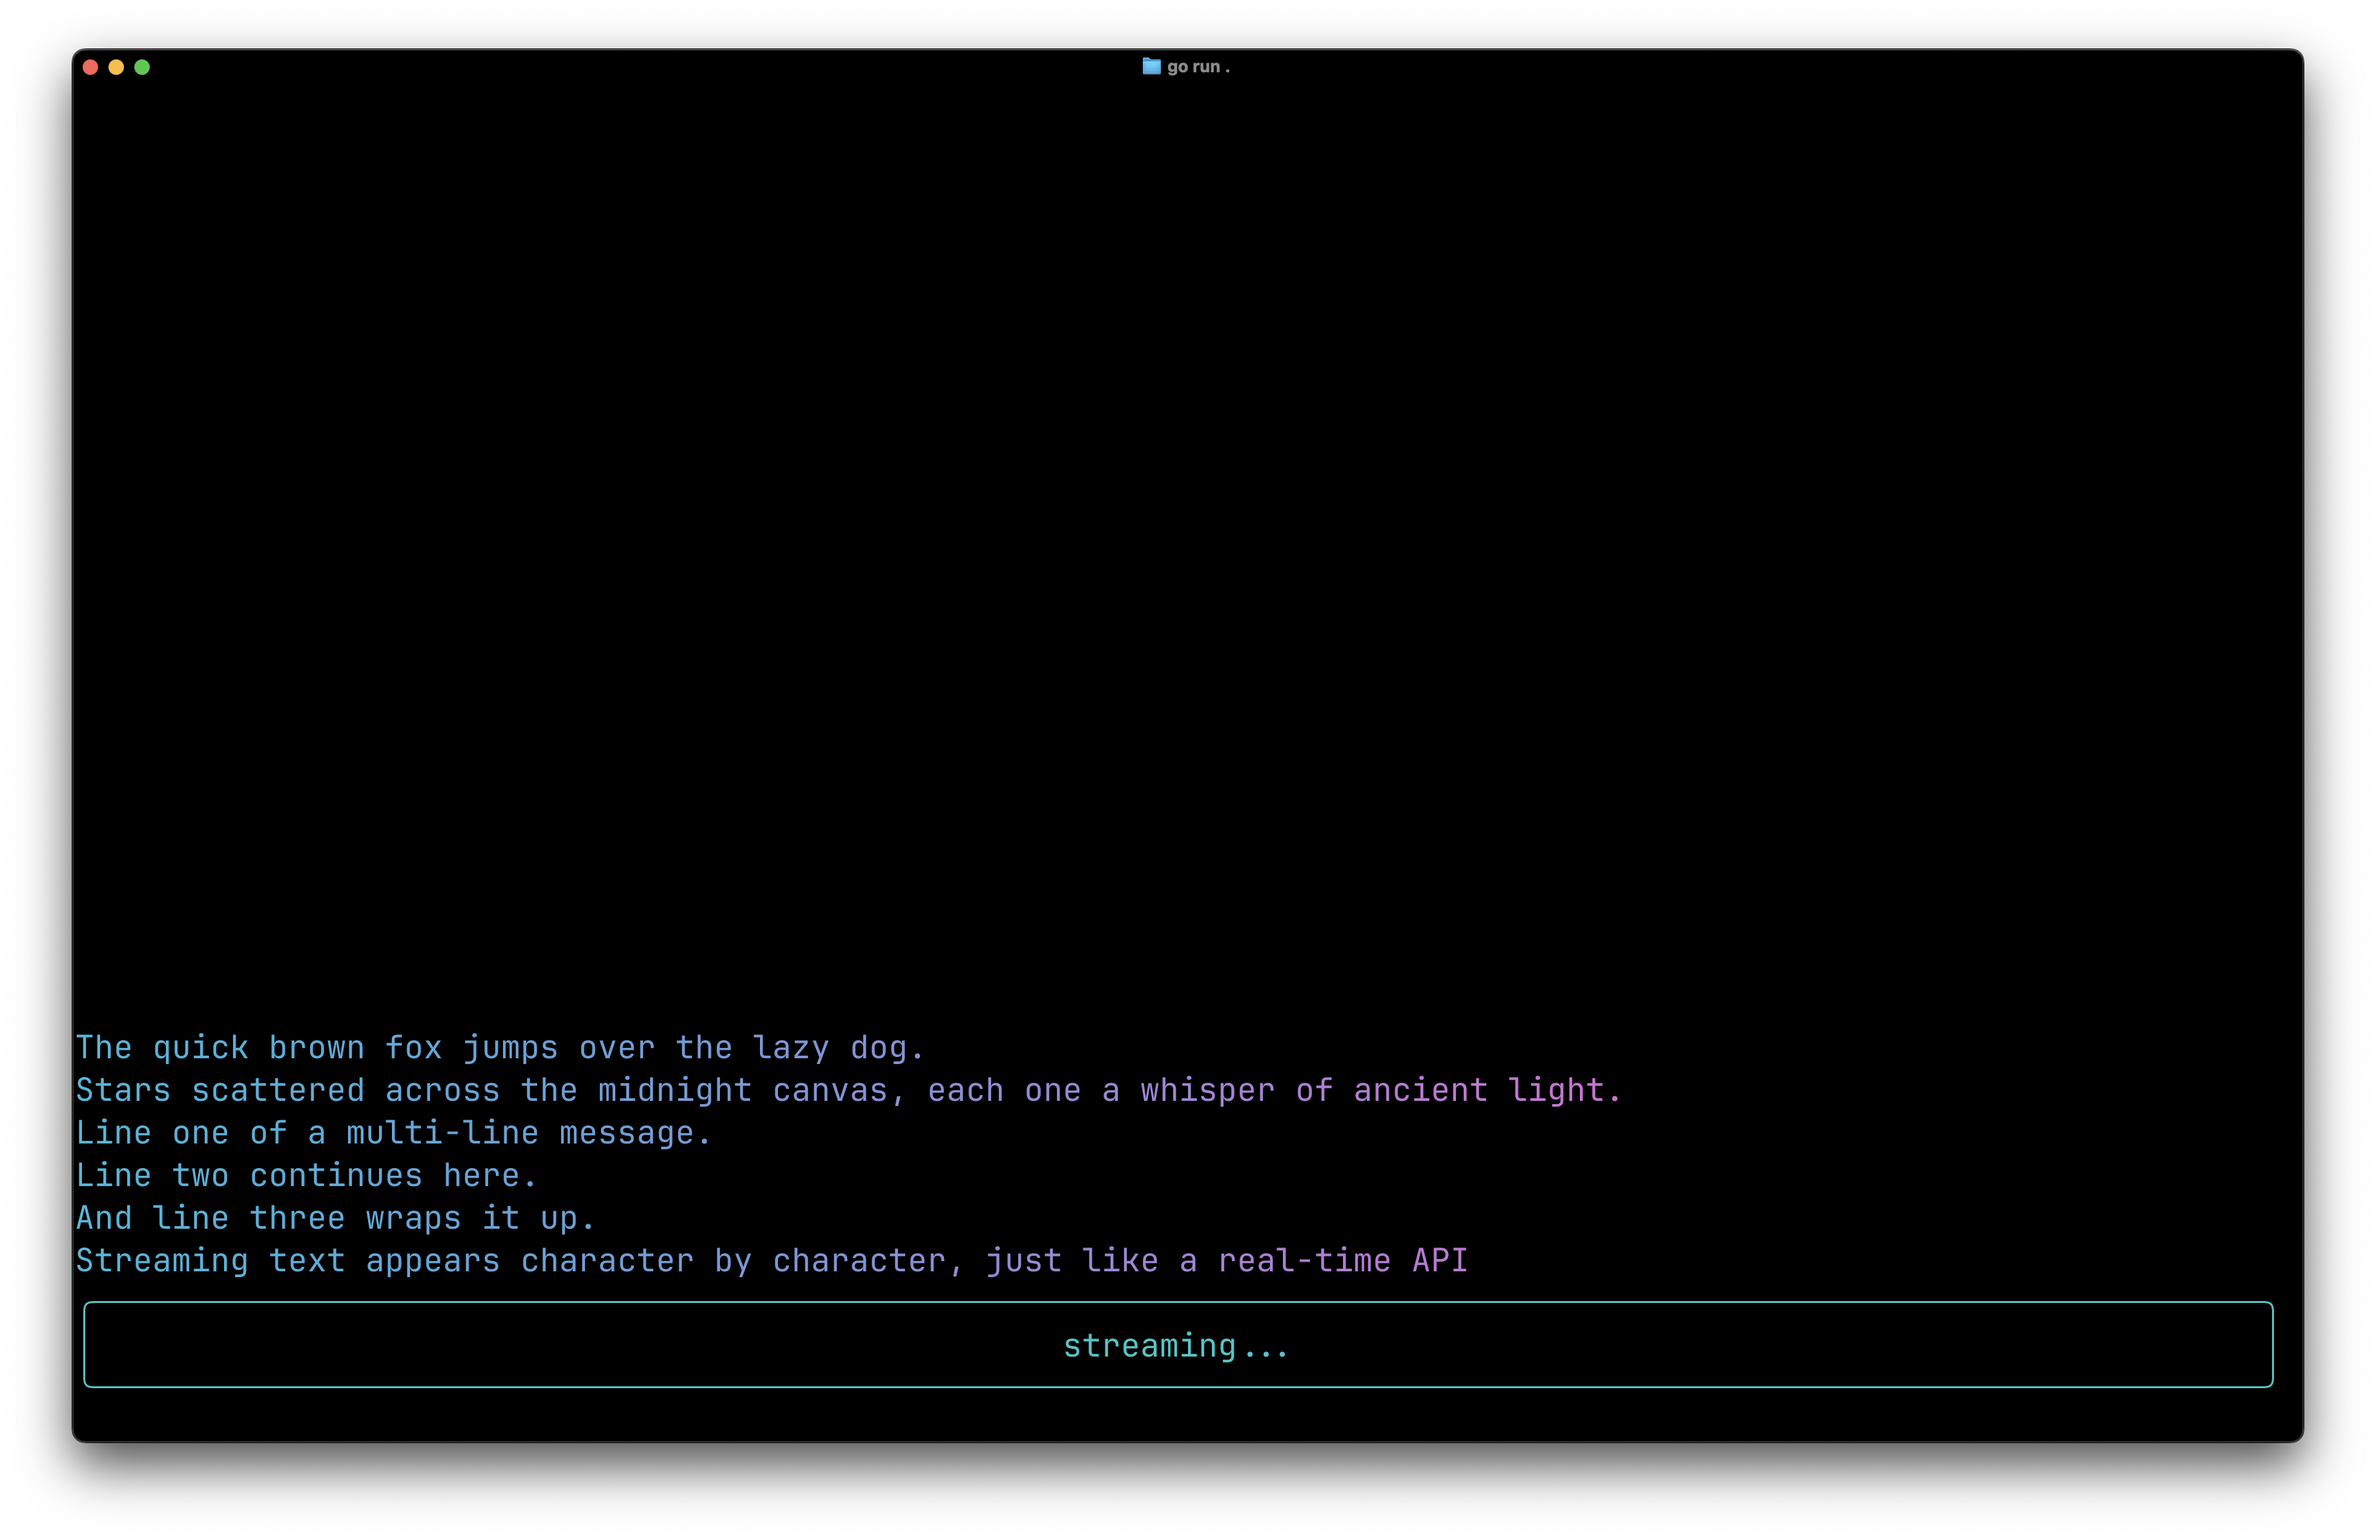
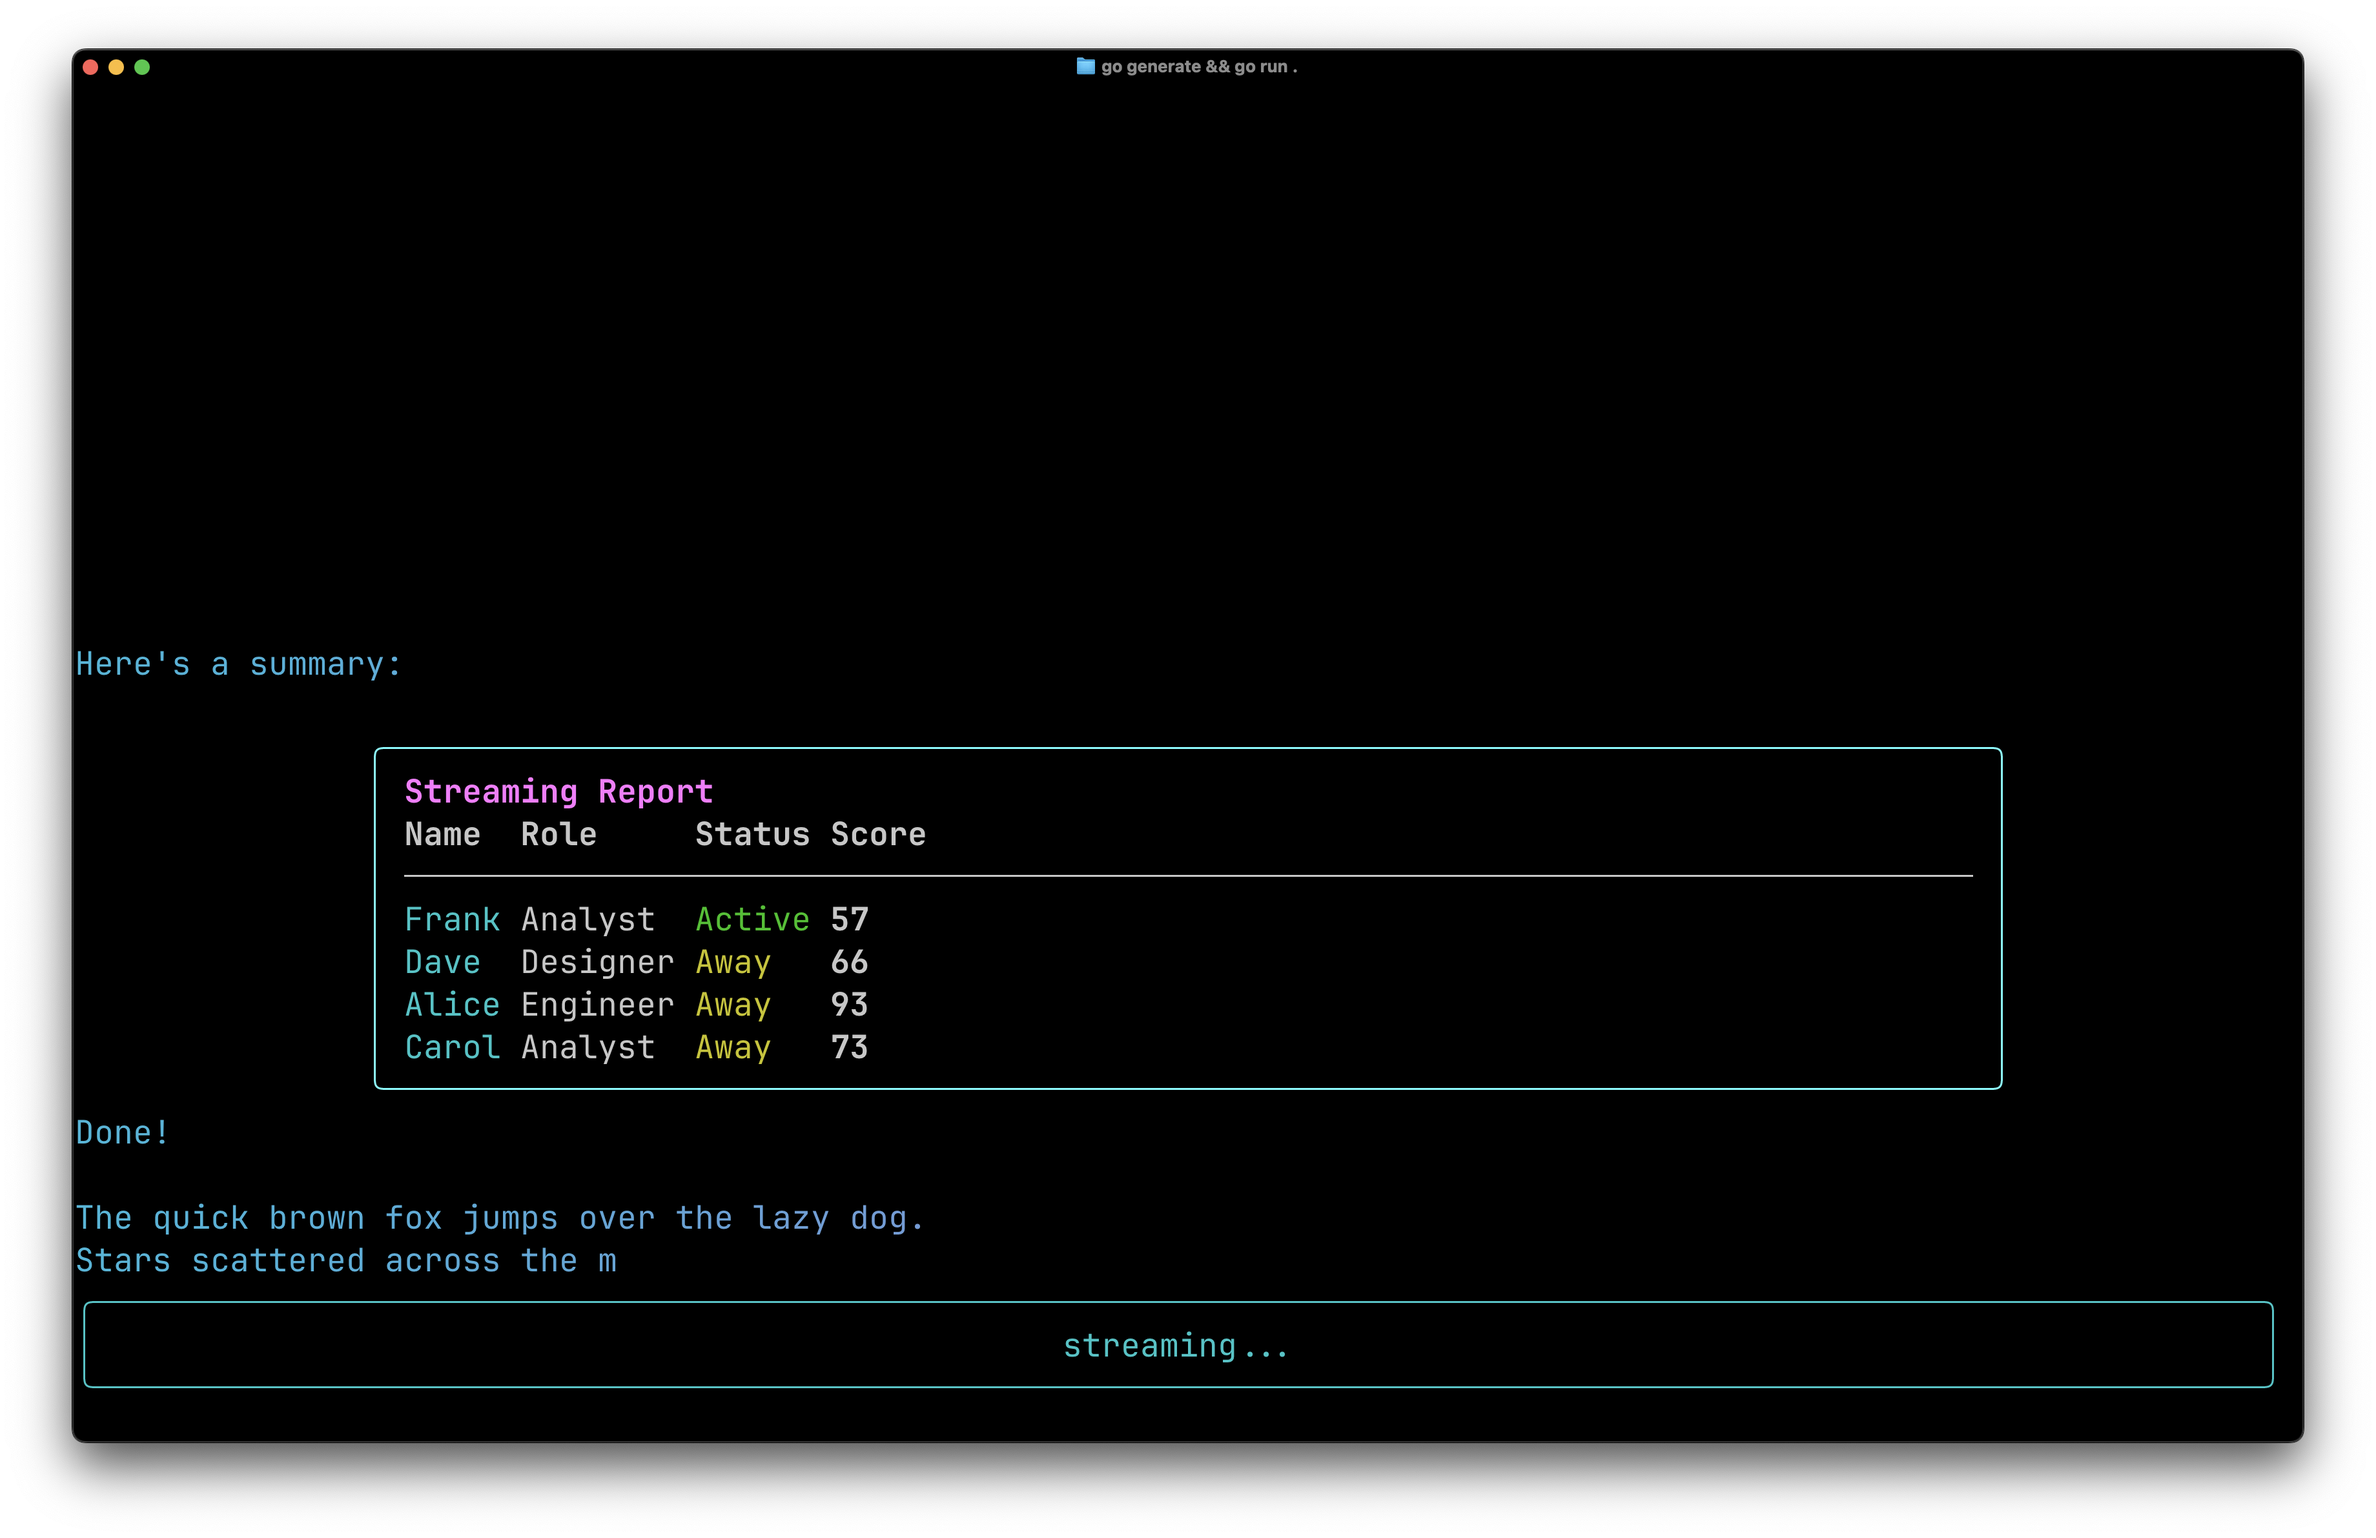
make the stream write api simpler and update the docs

diff --git a/app_lifecycle.go b/app_lifecycle.go
@@ -187,14 +187,22 @@ func (a *App) printAboveStyledRaw(content string) {
 	a.MarkDirty()
 }
 
-// PrintAboveElement renders an element tree and inserts the resulting rows into
+// PrintAboveElement renders a Viewable and inserts the resulting rows into
 // the inline scrollback. The element is rendered at the terminal's current width
 // and baked into static ANSI text. This is useful for inserting structured
 // content (tables, styled cards, templ component output) into the scrollback.
 // No-op if not in inline mode.
 // Must be called from the app's main event loop.
-func (a *App) PrintAboveElement(el *Element) {
-	if a.inlineHeight == 0 || el == nil {
+func (a *App) PrintAboveElement(v Viewable) {
+	if a.inlineHeight == 0 || v == nil {
+		return
+	}
+	root := v.GetRoot()
+	if root == nil {
+		return
+	}
+	el, ok := root.(*Element)
+	if !ok || el == nil {
 		return
 	}
 	if a.inlineStartRow < 1 {
@@ -230,12 +238,12 @@ func (a *App) PrintAboveElement(el *Element) {
 // QueuePrintAboveElement is the goroutine-safe version of PrintAboveElement.
 // The element is rendered and inserted on the main event loop.
 // Safe to call from any goroutine.
-func (a *App) QueuePrintAboveElement(el *Element) {
-	if a.inlineHeight == 0 || el == nil {
+func (a *App) QueuePrintAboveElement(v Viewable) {
+	if a.inlineHeight == 0 || v == nil {
 		return
 	}
 	a.QueueUpdate(func() {
-		a.PrintAboveElement(el)
+		a.PrintAboveElement(v)
 	})
 }
 

diff --git a/stream_writer.go b/stream_writer.go
@@ -109,17 +109,17 @@ func (sw *StreamWriter) WriteGradient(text string, g Gradient, base ...Style) (i
 	return sw.w.Write(sw.esc.Bytes())
 }
 
-// WriteElement renders an element tree and inserts the resulting rows into the
+// WriteElement renders a Viewable and inserts the resulting rows into the
 // inline scrollback mid-stream. Any current partial line is finalized before
 // the element rows are inserted. After insertion, the next Write call starts
 // a fresh partial line.
 // No-op if the writer is in nop mode or the app is nil.
-func (sw *StreamWriter) WriteElement(el *Element) {
+func (sw *StreamWriter) WriteElement(v Viewable) {
 	if sw.nop || sw.app == nil {
 		return
 	}
 	sw.app.QueueUpdate(func() {
-		sw.app.PrintAboveElement(el)
+		sw.app.PrintAboveElement(v)
 	})
 	sw.col = 0
 }

diff --git a/element_accessors.go b/element_accessors.go
@@ -1,5 +1,11 @@
 package tui
 
+// GetRoot implements Viewable. Returns the element itself as a Renderable.
+func (e *Element) GetRoot() Renderable { return e }
+
+// GetWatchers implements Viewable. Elements have no standalone watchers.
+func (e *Element) GetWatchers() []Watcher { return nil }
+
 // SetStyle updates the layout style and marks the element dirty.
 func (e *Element) SetStyle(style LayoutStyle) {
 	e.style = style

diff --git a/examples/17-inline-streaming/stream_gsx.go b/examples/17-inline-streaming/stream_gsx.go
@@ -82,7 +82,7 @@ func (s *streamDemo) streamWithElement() {
 		w.WriteGradient("Here's a summary:\n", gradient)
 		time.Sleep(100 * time.Millisecond)
 
-		w.WriteElement(ReportCard(randomPeople()).Root)
+		w.WriteElement(ReportCard(randomPeople()))
 
 		time.Sleep(100 * time.Millisecond)
 		w.WriteGradient("Done!\n", gradient)

diff --git a/docs/src/content/guides/17-inline-streaming.md b/docs/src/content/guides/17-inline-streaming.md
@@ -141,35 +141,35 @@ The sequence looks like:
 
 `StreamWriter.WriteElement` lets you insert a fully rendered element into the scrollback without closing and reopening the stream. The element is laid out at the terminal width, rendered to ANSI text, and inserted row by row. Any partial line is finalized first.
 
-This is useful for chat-style interfaces where streamed text includes structured content like tables:
+This is useful for chat-style interfaces where streamed text includes structured content like tables or styled cards:
 
 ```go
 go func() {
     w := app.StreamAbove()
-    w.WriteStyled("Here's the data:\n", tui.NewStyle().Bold())
-    w.WriteElement(DataTable(rows))
-    w.Write([]byte("Let me know if you need more.\n"))
+    w.WriteGradient("Here's a summary:\n", gradient)
+    w.WriteElement(ReportCard(data))
+    w.WriteGradient("Done!\n", gradient)
     w.Close()
 }()
 ```
 
-`WriteElement` accepts any `*Element`, including output from templ functions. The element is rendered once and baked into static text — it does not remain interactive.
+`WriteElement` accepts any `Viewable`, which includes the view structs generated from templ functions. The element tree is rendered once and baked into static ANSI text. It does not remain interactive.
 
 You can also use `PrintAboveElement` directly on the app when you're not mid-stream:
 
 ```go
-app.PrintAboveElement(DataTable(rows))
+app.PrintAboveElement(ReportCard(data))
 ```
 
 Or from a goroutine:
 
 ```go
-app.QueuePrintAboveElement(DataTable(rows))
+app.QueuePrintAboveElement(ReportCard(data))
 ```
 
 ## Complete Example
 
-This example creates an inline widget with a 3-row status bar. Pressing Enter streams a phrase above the widget, one character at a time, with a gradient color effect:
+This example creates an inline widget with a 3-row status bar. Pressing Enter streams text character by character with a gradient. Pressing Tab streams gradient text with a rendered element (a randomized report card table) in the middle.
 
 ```go
 package main
@@ -199,18 +199,21 @@ func main() {
 }
 ```
 
-The component uses a `State[bool]` to track whether a stream is in progress, and disables starting another stream until the current one finishes:
+The component uses a `State[bool]` to track whether a stream is in progress, and disables starting another stream until the current one finishes. A `ReportCard` templ function builds a styled table that gets inserted into the scrollback via `WriteElement`:
 
 ```gsx
 package main
 
 import (
+    "fmt"
+    "math/rand/v2"
     "time"
     tui "github.com/grindlemire/go-tui"
 )
 
 var gradient = tui.NewGradient(tui.BrightCyan, tui.BrightMagenta)
 
+// phrases to cycle through when the user presses Enter.
 var phrases = []string{
     "The quick brown fox jumps over the lazy dog.",
     "Stars scattered across the midnight canvas, each one a whisper of ancient light.",
@@ -230,6 +233,97 @@ func StreamDemo() *streamDemo {
     }
 }
 
+type person struct {
+    Name   string
+    Role   string
+    Status string
+    Score  int
+}
+
+var (
+    allNames   = []string{"Alice", "Bob", "Carol", "Dave", "Eve", "Frank"}
+    allRoles   = []string{"Engineer", "Designer", "PM", "Analyst", "DevOps", "QA"}
+    allStatuses = []string{"Active", "Away", "Busy", "Offline"}
+    statusColors = map[string]tui.Color{
+        "Active":  tui.Green,
+        "Away":    tui.Yellow,
+        "Busy":    tui.Red,
+        "Offline": tui.BrightBlack,
+    }
+)
+
+func randomPeople() []person {
+    n := 3 + rand.IntN(3)
+    used := map[int]bool{}
+    people := make([]person, 0, n)
+    for range n {
+        idx := rand.IntN(len(allNames))
+        for used[idx] {
+            idx = rand.IntN(len(allNames))
+        }
+        used[idx] = true
+        people = append(people, person{
+            Name:   allNames[idx],
+            Role:   allRoles[rand.IntN(len(allRoles))],
+            Status: allStatuses[rand.IntN(len(allStatuses))],
+            Score:  50 + rand.IntN(51),
+        })
+    }
+    return people
+}
+
+templ ReportCard(people []person) {
+    <div class="flex justify-center">
+        <div class="flex-col border-rounded w-3/4 px-1" borderStyle={tui.NewStyle().Foreground(tui.BrightCyan)}>
+            <span class="font-bold text-bright-magenta">Streaming Report</span>
+            <table>
+                <tr>
+                    <th class="grow">Name</th>
+                    <th class="grow">Role</th>
+                    <th class="grow">Status</th>
+                    <th>Score</th>
+                </tr>
+                <hr />
+                @for _, p := range people {
+                    <tr>
+                        <td class="text-cyan grow">{p.Name}</td>
+                        <td class="grow">{p.Role}</td>
+                        <td class="grow" textStyle={tui.NewStyle().Foreground(statusColors[p.Status])}>{p.Status}</td>
+                        <td class="font-bold">{fmt.Sprintf("%d", p.Score)}</td>
+                    </tr>
+                }
+            </table>
+        </div>
+    </div>
+}
+
+// streamWithElement opens a StreamAbove writer, writes gradient intro text,
+// inserts a styled card with a randomized table via WriteElement, then writes
+// gradient outro text.
+func (s *streamDemo) streamWithElement() {
+    if s.streaming.Get() {
+        return
+    }
+    s.streaming.Set(true)
+
+    go func() {
+        w := s.app.StreamAbove()
+        w.WriteGradient("Here's a summary:\n", gradient)
+        time.Sleep(100 * time.Millisecond)
+
+        w.WriteElement(ReportCard(randomPeople()))
+
+        time.Sleep(100 * time.Millisecond)
+        w.WriteGradient("Done!\n", gradient)
+        w.Close()
+        s.app.QueueUpdate(func() {
+            s.streaming.Set(false)
+        })
+    }()
+}
+
+// streamPhrase opens a StreamAbove writer, writes each character with a
+// gradient color and a small delay, then closes the writer.
 func (s *streamDemo) streamPhrase() {
     if s.streaming.Get() {
         return
@@ -255,6 +349,7 @@ func (s *streamDemo) streamPhrase() {
 func (s *streamDemo) KeyMap() tui.KeyMap {
     return tui.KeyMap{
         tui.OnKeyStop(tui.KeyEnter, func(ke tui.KeyEvent) { s.streamPhrase() }),
+        tui.OnKeyStop(tui.KeyTab, func(ke tui.KeyEvent) { s.streamWithElement() }),
         tui.OnKey(tui.KeyEscape, func(ke tui.KeyEvent) { ke.App().Stop() }),
         tui.OnKey(tui.KeyCtrlC, func(ke tui.KeyEvent) { ke.App().Stop() }),
     }
@@ -264,7 +359,7 @@ func (s *streamDemo) statusText() string {
     if s.streaming.Get() {
         return "streaming..."
     }
-    return "Press Enter to stream a phrase  |  Esc to quit"
+    return "Enter to stream  |  Tab to stream with element  |  Esc to quit"
 }
 
 templ (s *streamDemo) Render() {
@@ -274,17 +369,17 @@ templ (s *streamDemo) Render() {
 }
 ```
 
-A few things to notice in the component code:
+A few things to notice:
 
-`streamPhrase()` checks `streaming.Get()` and returns early if a stream is already running, so you can't start two at once.
+Both `streamPhrase()` and `streamWithElement()` check `streaming.Get()` and return early if a stream is already running, so you can't start two at once.
 
-The actual writing happens in a goroutine so it doesn't block the event loop. The 30ms sleep between characters creates the typing effect.
+The writing happens in goroutines so it doesn't block the event loop. `streamPhrase` uses a 30ms sleep between characters for the typing effect, while `streamWithElement` uses short pauses around the element insertion.
 
-`WriteGradient` handles per-character gradient coloring and column tracking internally. No need for manual ANSI escape sequences, column counters, or `QueueUpdate` calls for position tracking.
+`WriteGradient` handles per-character gradient coloring and column tracking internally. No manual ANSI escape sequences, column counters, or position tracking needed.
 
-Newlines in the text are handled automatically by `WriteGradient` — the column resets and a new line starts.
+`WriteElement` takes the output of the `ReportCard` templ function and renders it as static ANSI text into the scrollback. The table keeps its borders, colors, and layout, and appears between the streamed gradient text. The element is rendered once at insertion time and doesn't stay interactive.
 
-After writing all characters, we close the writer and set `streaming` back to `false` through `QueueUpdate`.
+After writing, both methods close the writer and set `streaming` back to `false` through `QueueUpdate`.
 
 Generate and run:
 
@@ -293,9 +388,19 @@ tui generate ./...
 go run .
 ```
 
-Press Enter repeatedly to stream different phrases. Each appears above the widget with a cyan-to-magenta gradient:
+Press Enter to stream text with a cyan-to-magenta gradient, or press Tab to stream a report card element into the scrollback:
 
 ![Inline Streaming screenshot](/guides/17.png)
+
+## API Reference
+
+- `App.StreamAbove() *StreamWriter` - open a goroutine-safe stream writer for the scrollback region
+- `StreamWriter.WriteGradient(text string, grad Gradient, baseStyle ...Style)` - write text with gradient coloring
+- `StreamWriter.WriteStyled(text string, style Style)` - write text with a style applied
+- `StreamWriter.WriteElement(v Viewable)` - render an element tree into the scrollback mid-stream
+- `StreamWriter.Close()` - finalize the current partial line and close the writer
+- `App.PrintAboveElement(v Viewable)` - insert a rendered element into the scrollback (not mid-stream)
+- `App.QueuePrintAboveElement(v Viewable)` - goroutine-safe version of `PrintAboveElement`
 
 ## Next Steps
 
